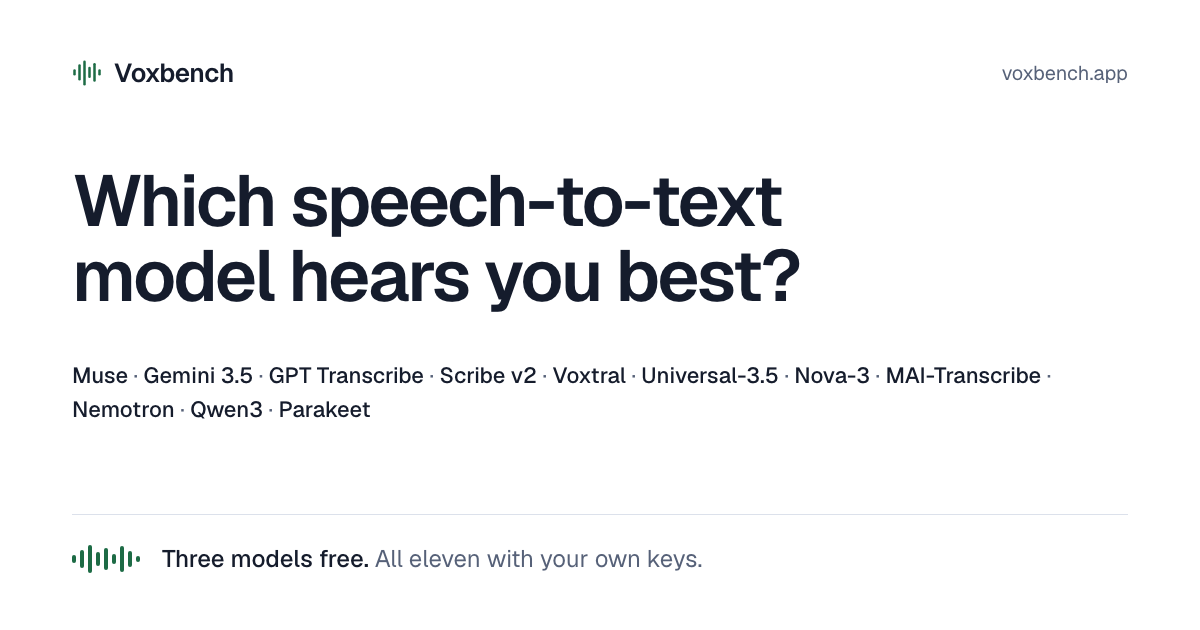
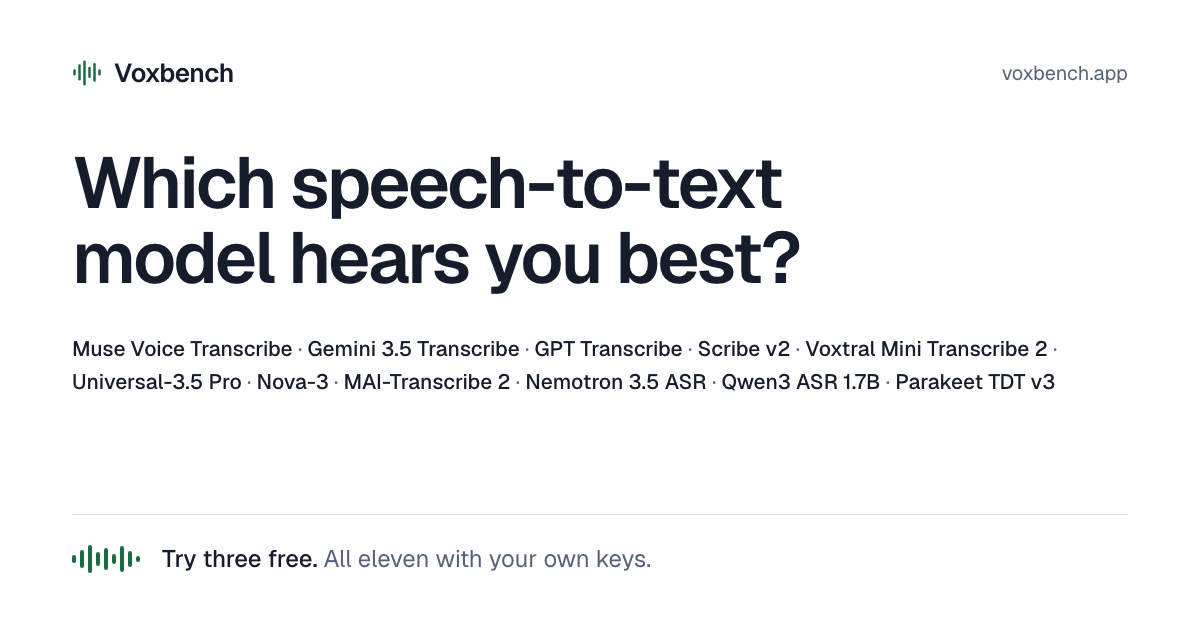
Say try three free; list full model names on og image

Changed region(s): [[0.0617, 0.2413, 0.6783, 0.5127], [0.0617, 0.5429, 0.8942, 0.6635], [0.1542, 0.8746, 0.5858, 0.9048]]

diff --git a/scripts/og.html b/scripts/og.html
@@ -13,8 +13,8 @@
   .brand { display: flex; align-items: center; gap: 12px; font-size: 26px; font-weight: 600; letter-spacing: -0.4px; }
   .brand svg { color: var(--green); }
   .url { font-size: 20px; color: var(--muted); }
-  h1 { font-size: 72px; line-height: 1.04; letter-spacing: -2.4px; font-weight: 600; margin: 74px 0 0; max-width: 18ch; }
-  .models { margin-top: 44px; font-size: 22px; line-height: 1.55; color: var(--muted); max-width: 980px; }
+  h1 { font-size: 72px; line-height: 1.04; letter-spacing: -2.4px; font-weight: 600; margin: 56px 0 0; max-width: 18ch; }
+  .models { margin-top: 36px; font-size: 21px; line-height: 1.6; color: var(--muted); max-width: 1000px; }
   .models b { color: var(--ink); font-weight: 500; }
   .bottom { margin-top: auto; display: flex; align-items: center; gap: 22px; padding-top: 28px; border-top: 1px solid var(--rule); }
   .wave { display: flex; align-items: center; gap: 4px; height: 28px; }
@@ -34,13 +34,13 @@
   </div>
   <h1>Which speech-to-text model hears you best?</h1>
   <p class="models">
-    <b>Muse</b> · <b>Gemini 3.5</b> · <b>GPT Transcribe</b> · <b>Scribe v2</b> · <b>Voxtral</b> · <b>Universal-3.5</b> · <b>Nova-3</b> · <b>MAI-Transcribe</b> · <b>Nemotron</b> · <b>Qwen3</b> · <b>Parakeet</b>
+    <b>Muse Voice Transcribe</b> · <b>Gemini 3.5 Transcribe</b> · <b>GPT Transcribe</b> · <b>Scribe v2</b> · <b>Voxtral Mini Transcribe 2</b> · <b>Universal-3.5 Pro</b> · <b>Nova-3</b> · <b>MAI-Transcribe 2</b> · <b>Nemotron 3.5 ASR</b> · <b>Qwen3 ASR 1.7B</b> · <b>Parakeet TDT v3</b>
   </p>
   <div class="bottom">
     <div class="wave">
       <i style="height:8px"></i><i style="height:18px"></i><i style="height:28px"></i><i style="height:14px"></i><i style="height:22px"></i><i style="height:10px"></i><i style="height:26px"></i><i style="height:16px"></i><i style="height:6px"></i>
     </div>
-    <div class="tag">Three models free. <span>All eleven with your own keys.</span></div>
+    <div class="tag">Try three free. <span>All eleven with your own keys.</span></div>
   </div>
 </div>
 </body>

diff --git a/app/layout.tsx b/app/layout.tsx
@@ -15,7 +15,7 @@ const geistMono = Geist_Mono({
 });
 
 const description =
-  'Record a take and read 11 speech-to-text transcripts side by side. Three models free, all eleven with your own keys.';
+  'Record a take and read 11 speech-to-text transcripts side by side. Try three free, run all eleven with your own keys.';
 export const metadata: Metadata = {
   metadataBase: new URL('https://voxbench.app'),
   title: 'Voxbench — which speech-to-text model hears you best?',
@@ -31,7 +31,7 @@ export const metadata: Metadata = {
         url: '/og.png',
         width: 1200,
         height: 630,
-        alt: 'Voxbench: which speech-to-text model hears you best? Eleven models, three free.',
+        alt: 'Voxbench: which speech-to-text model hears you best? Eleven models, three free to try.',
       },
     ],
   },

diff --git a/app/page.tsx b/app/page.tsx
@@ -674,8 +674,8 @@ export default function Home() {
         <div>
           <h1>Which speech-to-text model hears you best?</h1>
           <p>
-            Record a take and read 11 transcripts side by side. Three models
-            free, all eleven with your own keys.
+            Record a take and read 11 transcripts side by side. Try three free,
+            run all eleven with your own keys.
           </p>
         </div>
       </section>
